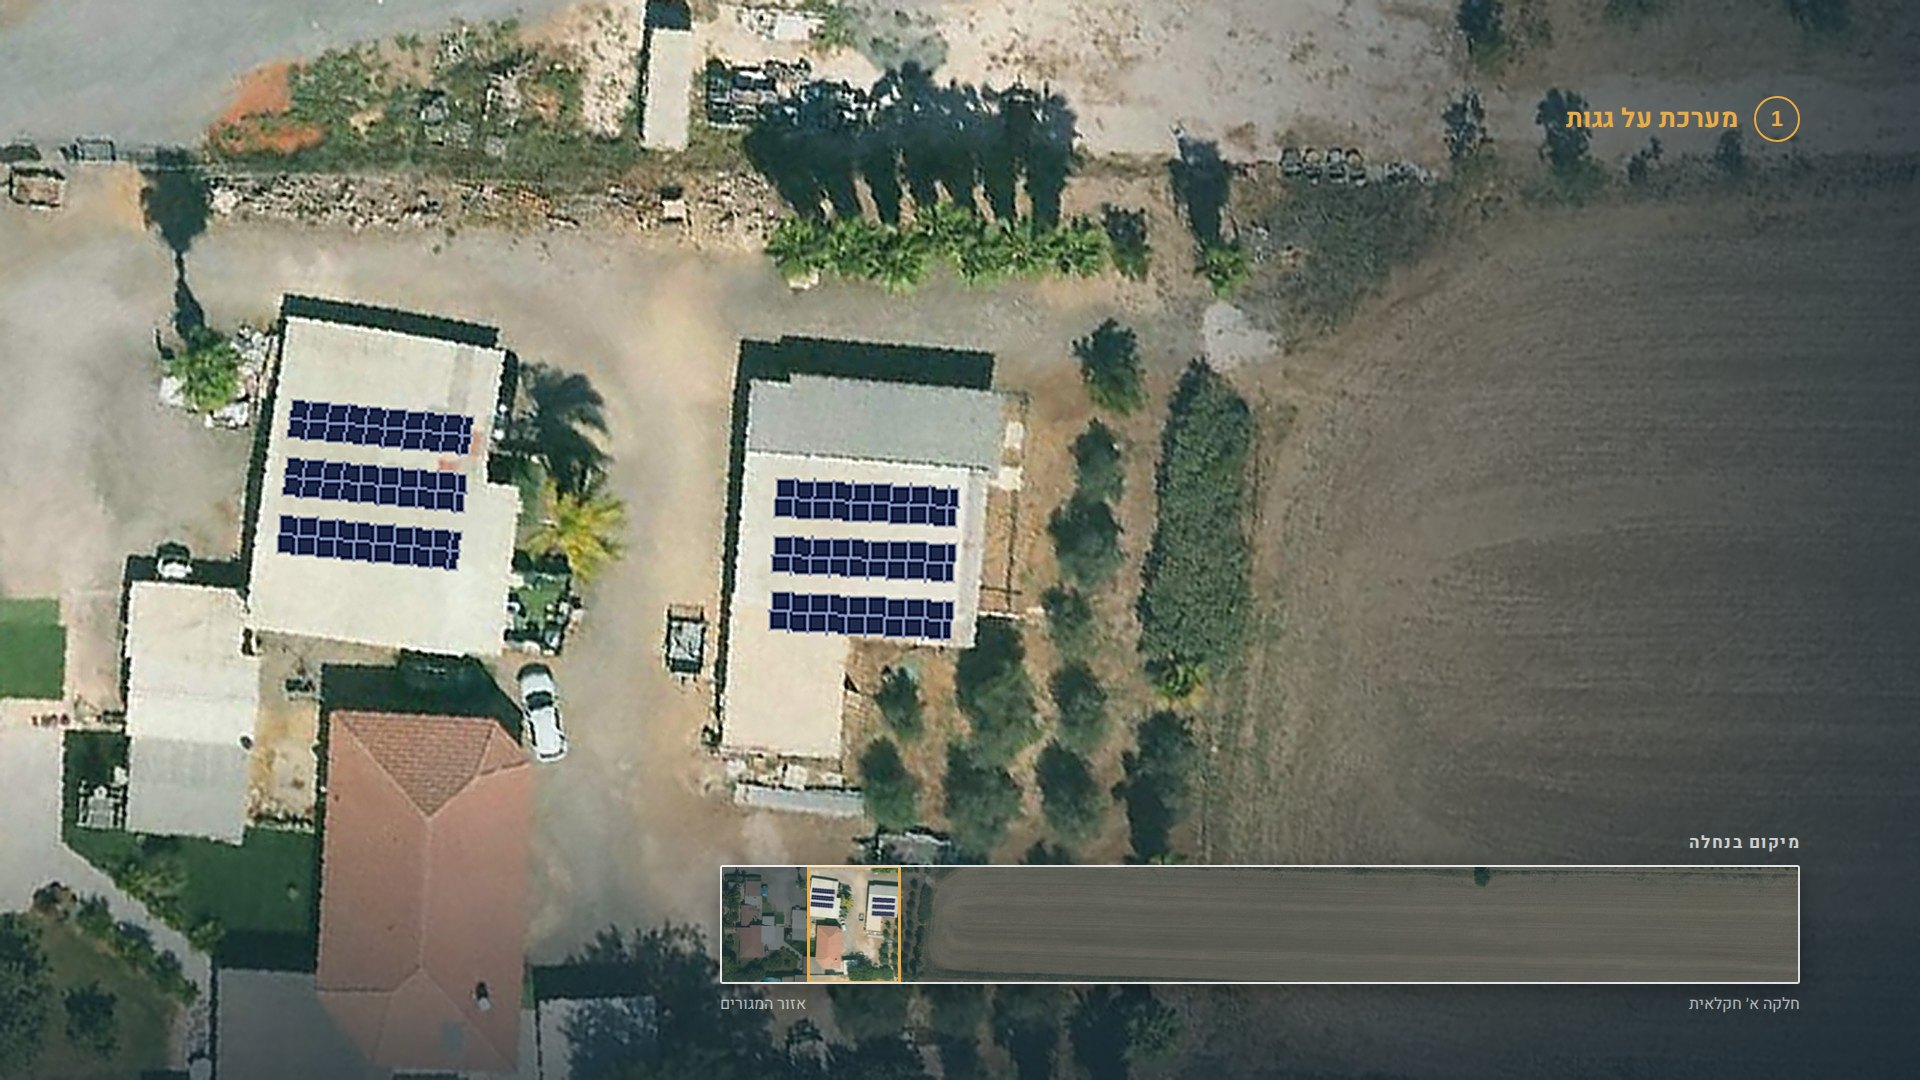
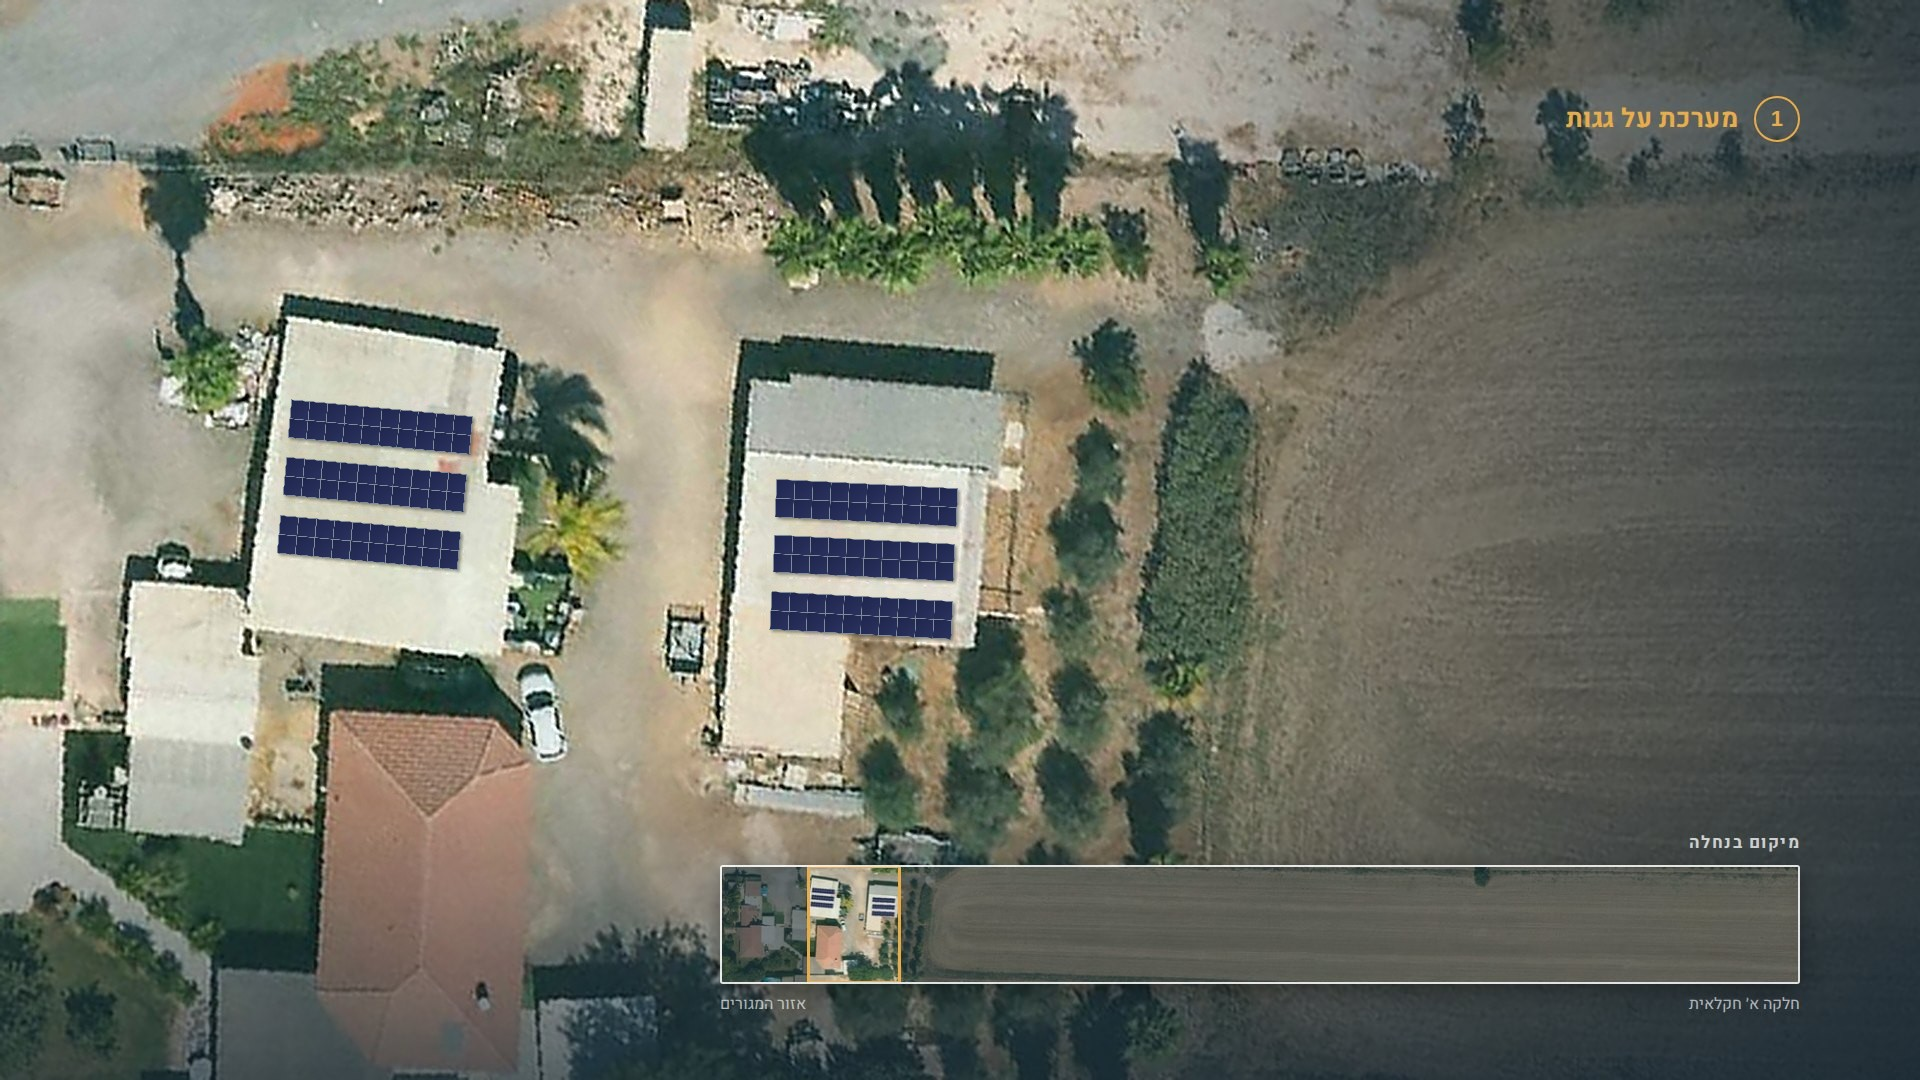
Nahala: clean straight roof panels in the renders; label the project images as renders
- 01-roofs, 02-ground (edge), 04-storage: the jagged hand-drawn rooftop rows erased (inpainted) and redrawn as straight arrays at the same position, angle and panel count
- rail images rebuilt from the cleaned frames
- each project image carries a 'הדמיית …' label

Claude-Session: https://claude.ai/code/session_01RpkoCU5oeSQ9HNrQbqzJmT

Changed region(s): [[0.125, 0.3667, 0.25, 0.55], [0.375, 0.4278, 0.5, 0.6111]]

diff --git a/content/home.ts b/content/home.ts
@@ -190,6 +190,7 @@ export const home = {
         slides: [
           {
             key: "nahala",
+            simulation: "",
             tab: "הנחלה",
             title: "מה אפשר להקים בנחלה?",
             body: "ארבעה פרויקטים סולאריים שיכולים לשבת זה לצד זה באותה נחלה, כל אחד עם הכללים והאתגרים שלו.",
@@ -197,6 +198,7 @@ export const home = {
           },
           {
             key: "roofs",
+            simulation: "הדמיית מערכת סולארית על גגות",
             tab: "גגות",
             title: "מערכת סולארית על הגגות",
             body: "מערכת סולארית על גגות המבנים הקיימים בנחלה: בית, מחסן ומבני משק. מנצלת שטח שכבר בנוי.",
@@ -204,6 +206,7 @@ export const home = {
           },
           {
             key: "ground",
+            simulation: "הדמיית מתקן קרקעי צמוד למגורים",
             tab: "דונם קרקעי",
             title: "דונם קרקעי צמוד למגורים",
             body: "עד דונם אחד של פאנלים על הקרקע, צמוד לאזור המגורים. אפשר להקים מערכת גבוהה וליהנות מדו־שימוש: שטח מוצל לחניה, לאחסון ולצרכים נוספים.",
@@ -211,6 +214,7 @@ export const home = {
           },
           {
             key: "agro",
+            simulation: "הדמיית מערכת אגרו־וולטאית",
             tab: "אגרו־וולטאי",
             title: "מערכת סולארית מעל הגידול",
             body: `עד ${spec.agroDunamMax} דונם בחלקה א׳, בשורות מוגבהות שמכסות עד ${spec.coverageMaxPct}% מהשטח. החקלאות ממשיכה מתחת לפאנלים.`,
@@ -224,6 +228,7 @@ export const home = {
           },
           {
             key: "storage",
+            simulation: "הדמיית מתקן סוללות לאגירת חשמל",
             tab: "אגירה",
             title: "מתקן סוללות אגירת חשמל",
             body: "הסוללות אוגרות את החשמל בשעות השמש ומאפשרות להזרים אותו לרשת בלילה. זה המפתח לקבלת חיבור מחברת החשמל.",

diff --git a/components/sections/NahalaProjects.tsx b/components/sections/NahalaProjects.tsx
@@ -8,7 +8,7 @@ import { cn } from "@/lib/cn";
 /**
  * /nahala: the four projects of the header carousel, laid out one under the other as static
  * image + text. On wide screens a tall "מיקום בנחלה" rail stays pinned beside them and switches
- * to the project in view. The rail is the mini-map from the client's frames, turned upright;
+ * to the project in view. Each image is labelled as a render (הדמיה). The rail is the mini-map from the client's frames, turned upright;
  * the frames themselves are cropped above their own mini-map there. Narrow screens show the
  * whole frame (mini-map included) and no rail.
  */
@@ -51,6 +51,11 @@ export function NahalaProjects() {
                 sizes="(min-width:1024px) 70vw, 100vw"
                 className="object-cover object-top"
               />
+              {/* these are renders, not built projects: say so on the image */}
+              <p className="absolute bottom-3 end-3 sm:bottom-4 sm:end-4 inline-flex items-center gap-2 rounded-full bg-cell-950/75 px-3 py-1.5 text-label text-limestone backdrop-blur-sm">
+                <span aria-hidden="true" className="block size-1.5 rotate-45 bg-amber-400" />
+                {p.simulation}
+              </p>
             </div>
             <div className="mt-6 lg:mt-8 grid gap-6 lg:grid-cols-10 lg:gap-10">
               <div className="lg:col-span-6">
